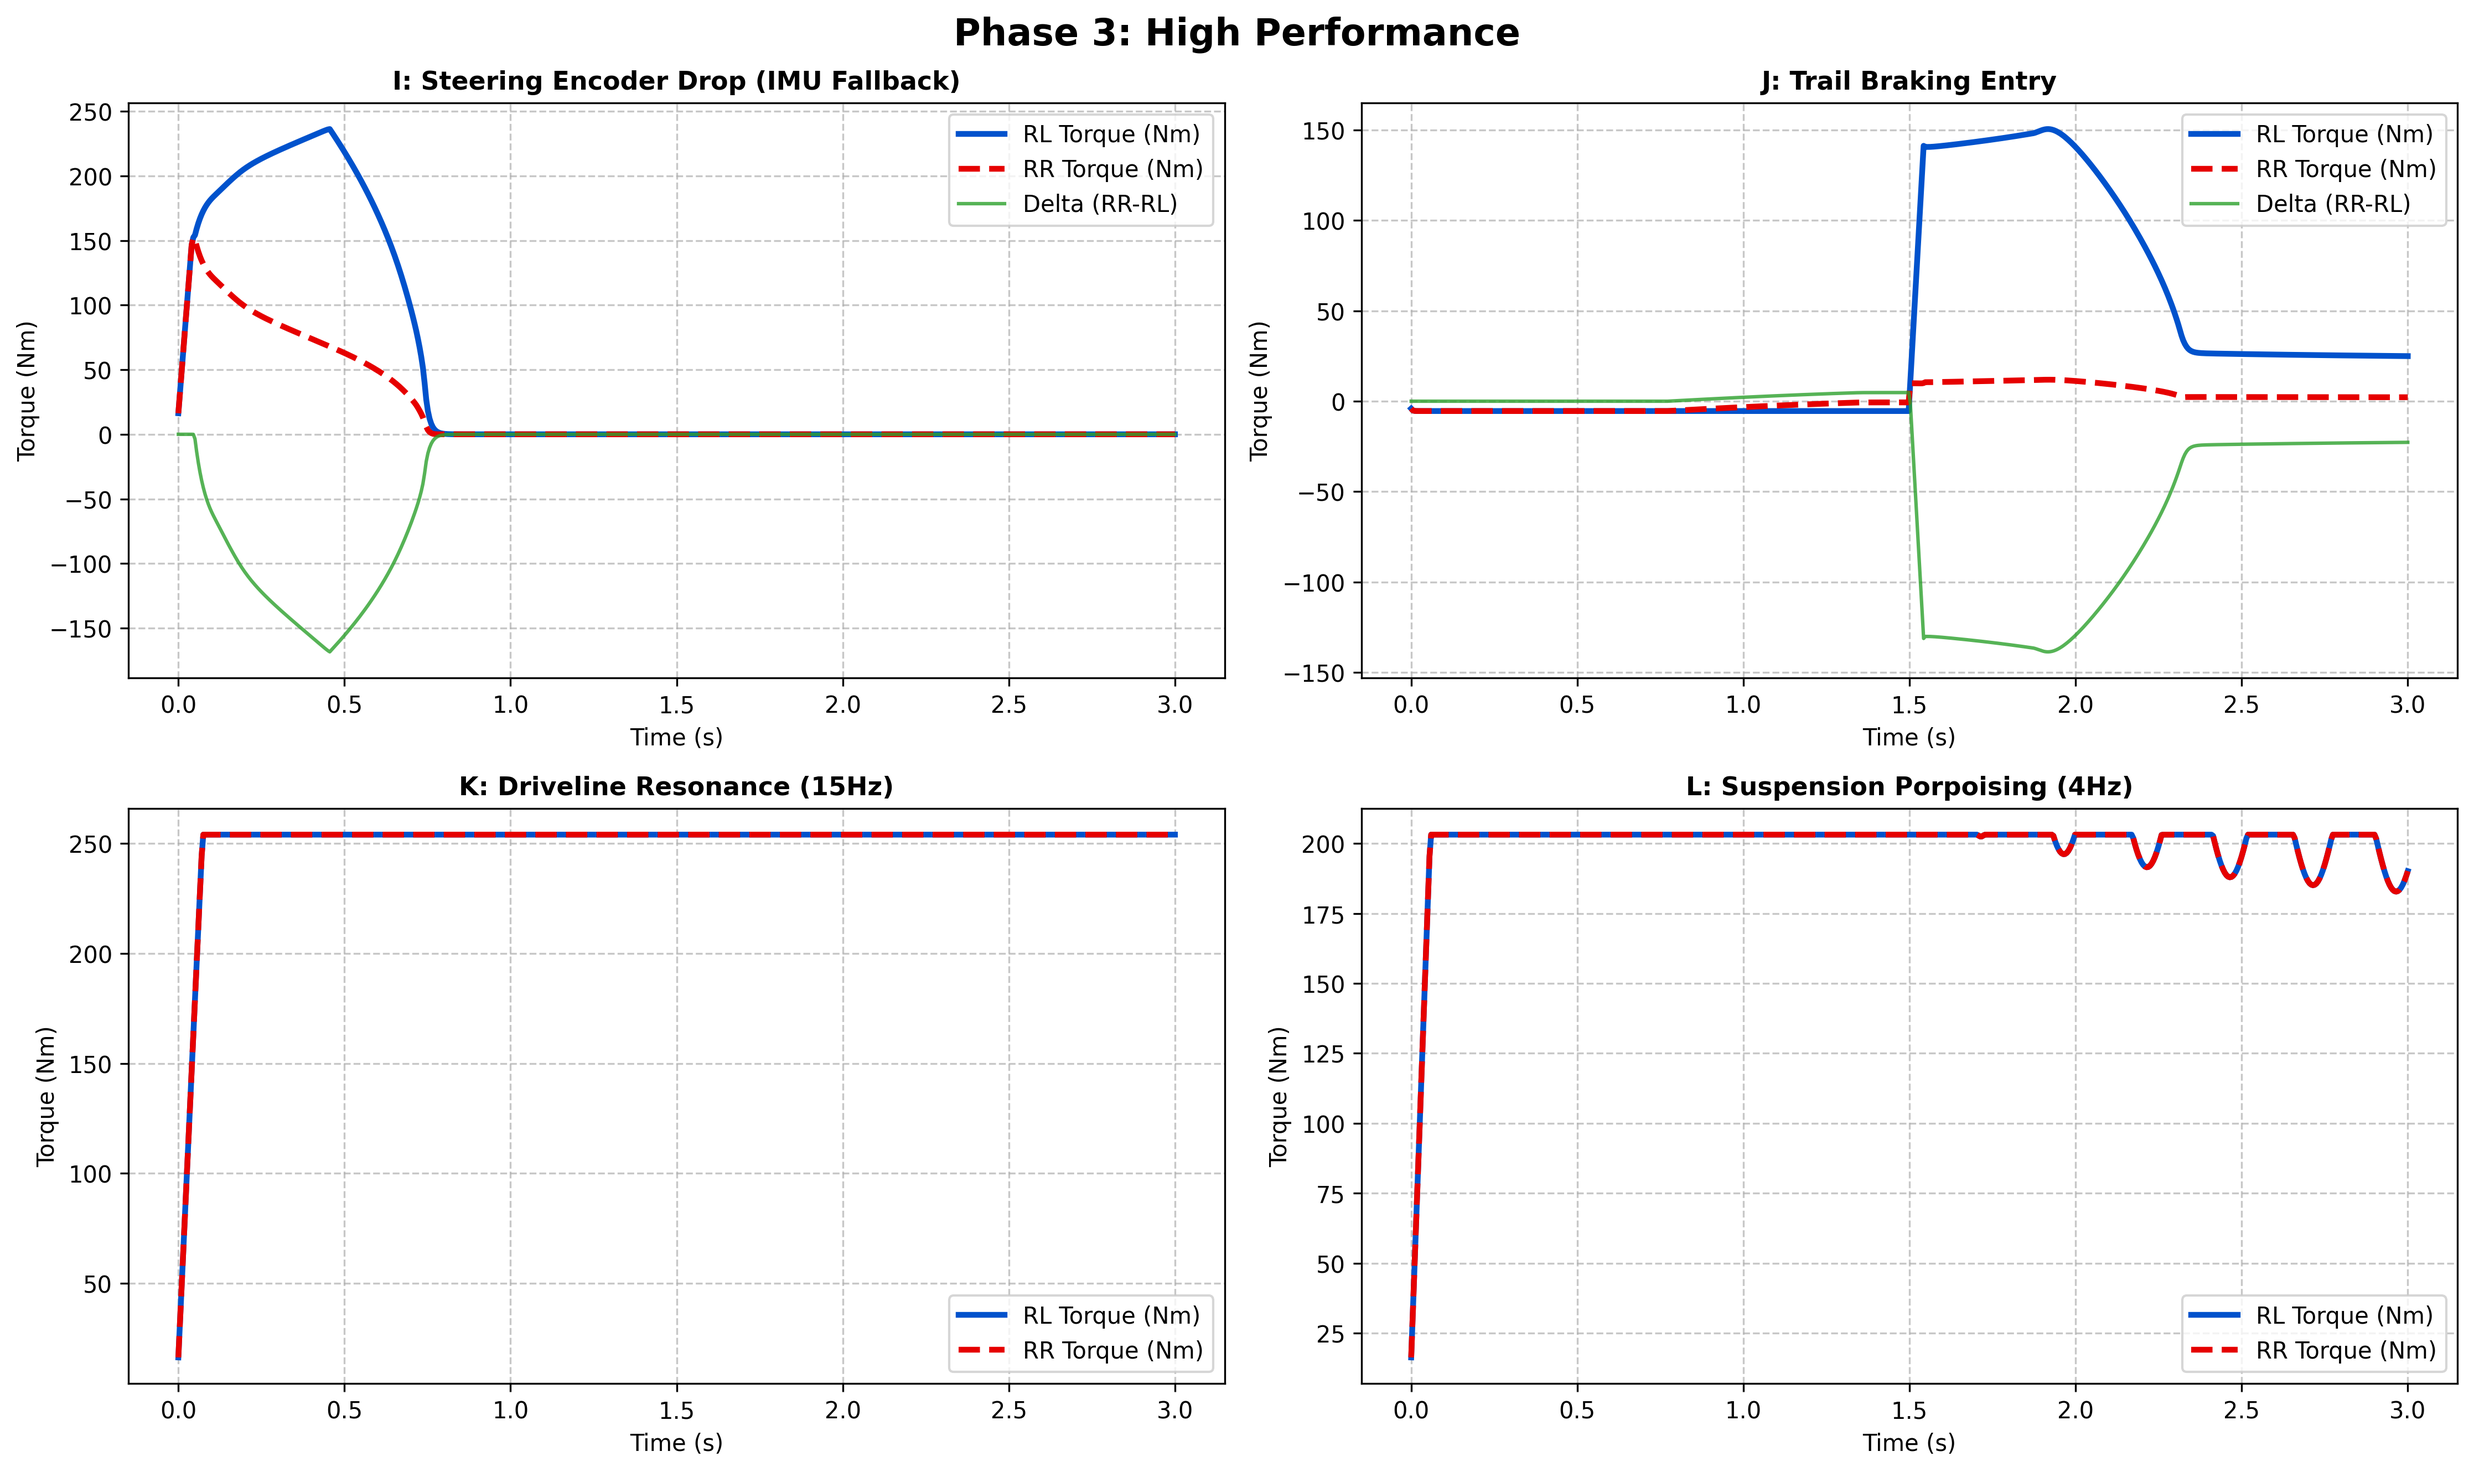
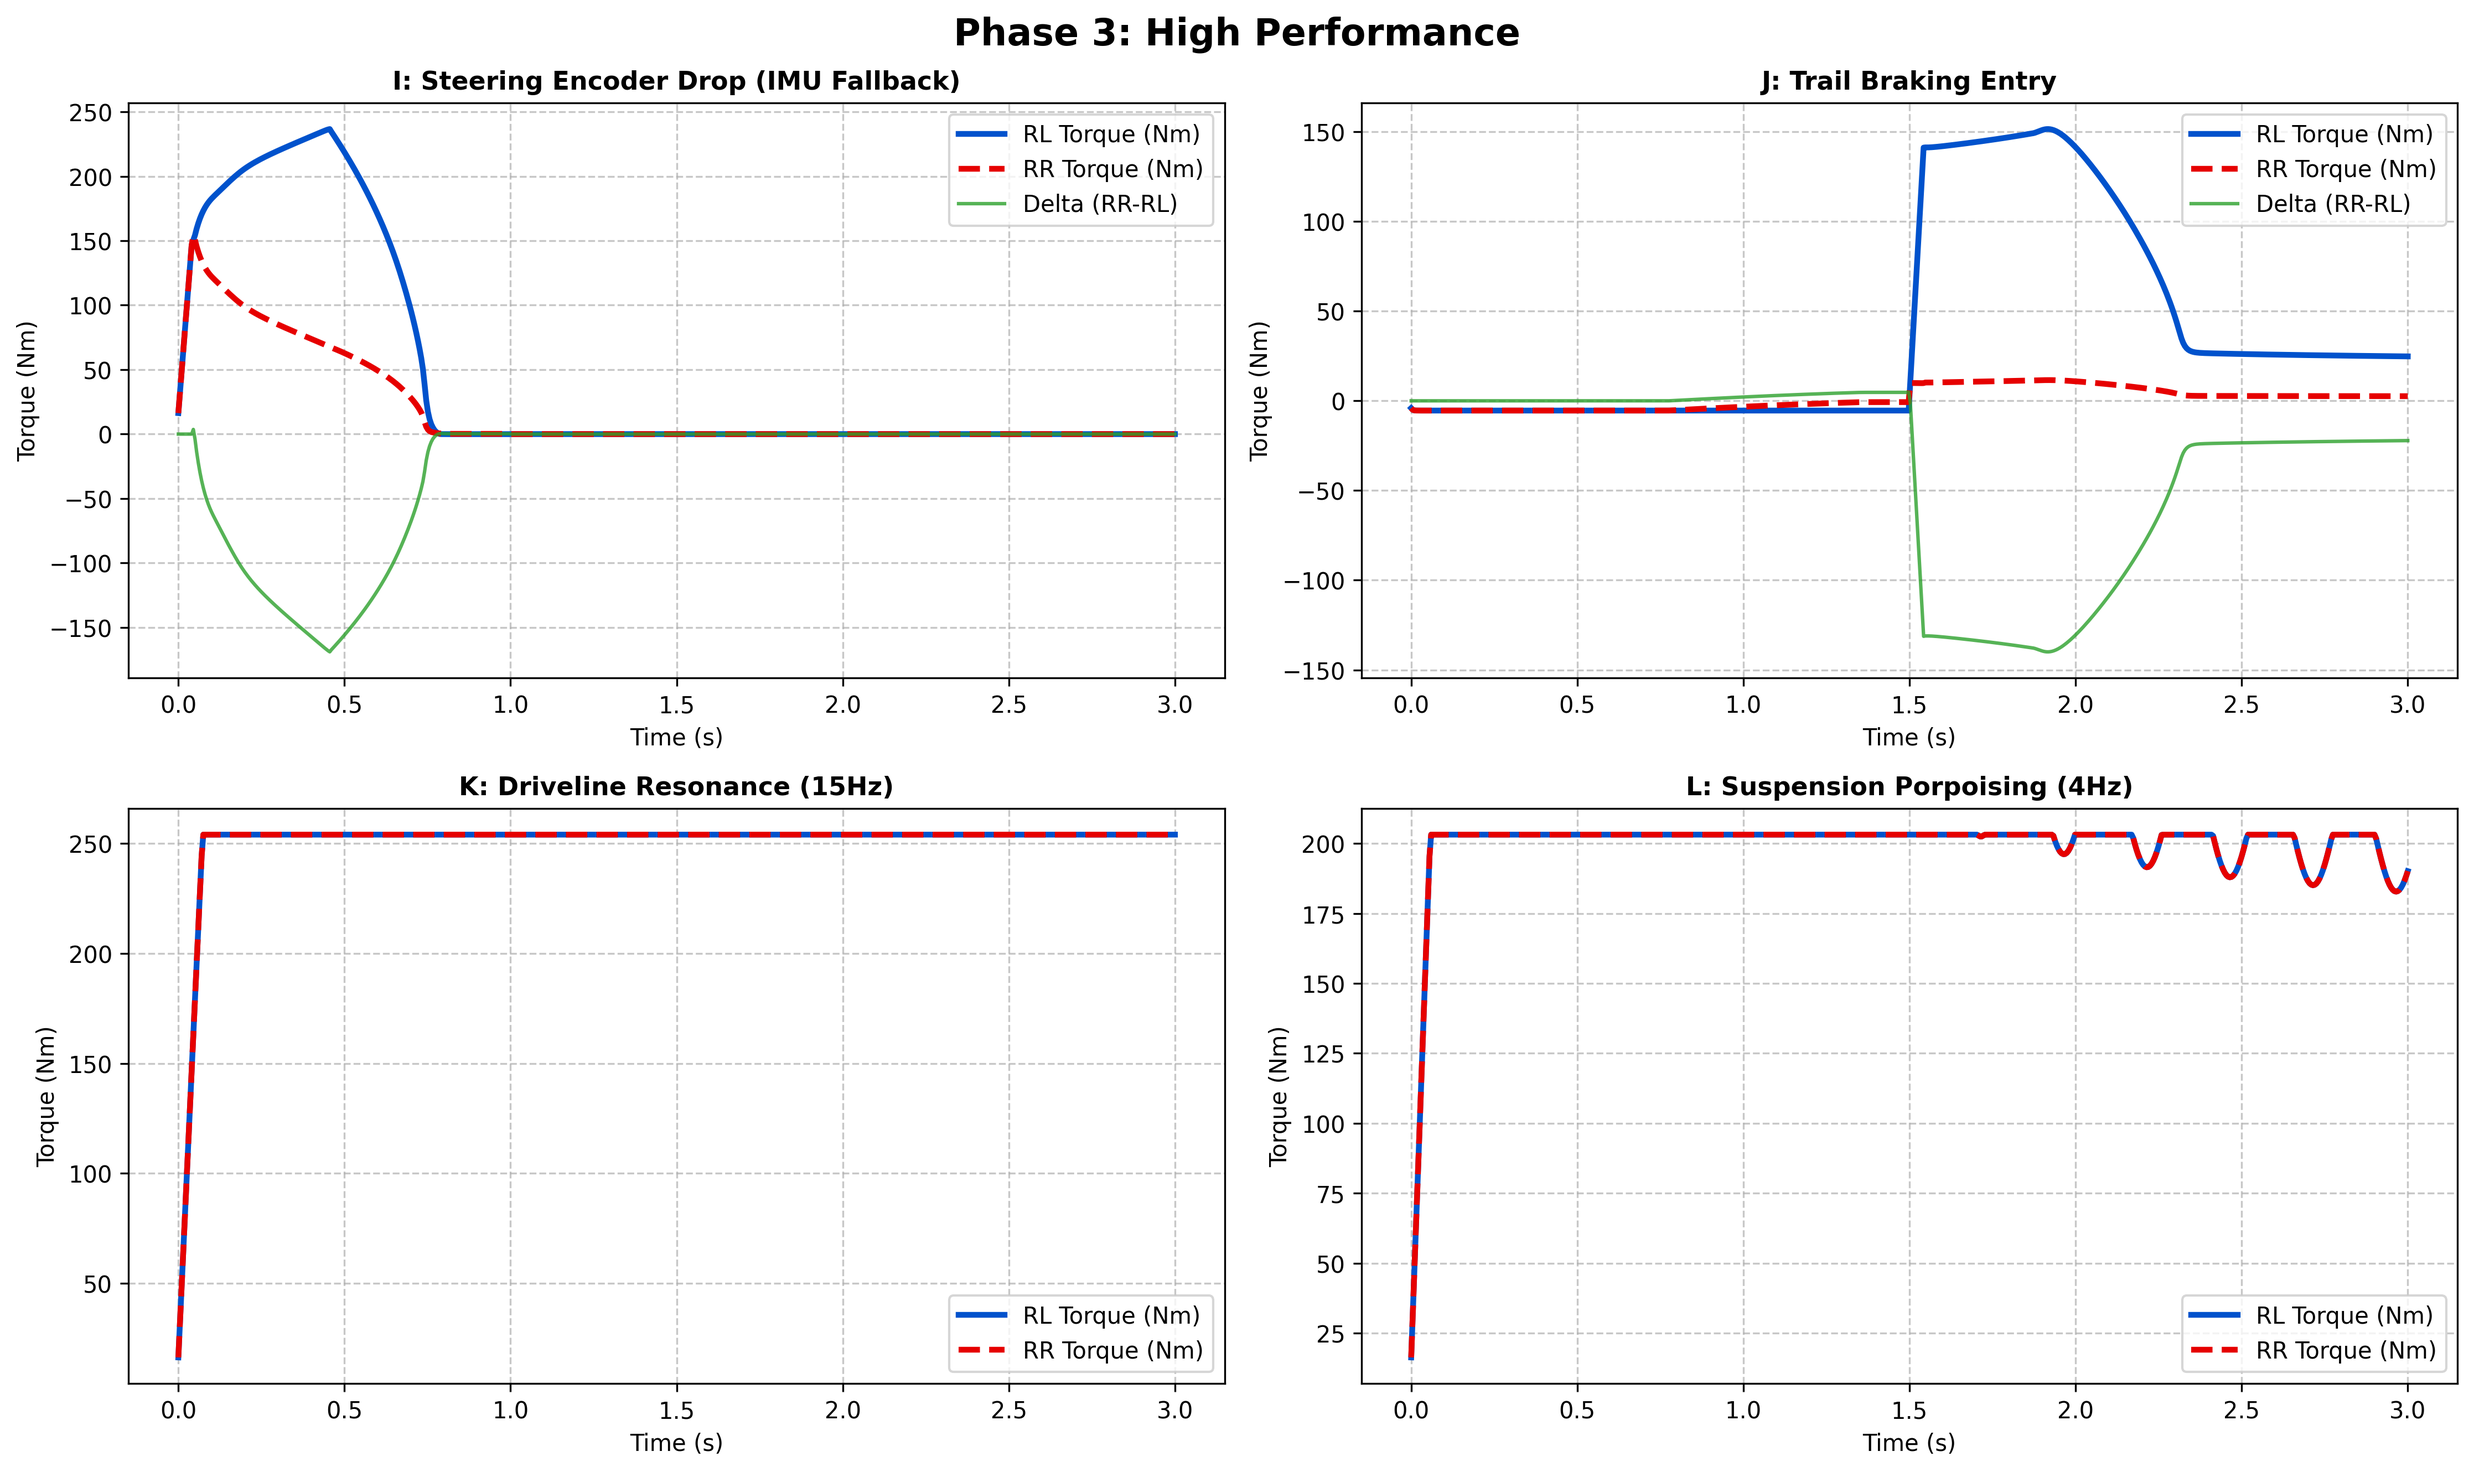
feat(v4): NMPC implementation and sanity checks trials

Changed region(s): [[0.5286, 0.4368, 0.5597, 0.468]]

diff --git a/SOFTWARE/TeR_ECU/Libraries/TRQ_VECTORING/master_sanity_checks.py b/SOFTWARE/TeR_ECU/Libraries/TRQ_VECTORING/master_sanity_checks.py
@@ -95,56 +95,36 @@ class TVState(ctypes.Structure):
 # Structural Safety Assertions
 assert ctypes.sizeof(TCState) == 42 * 4, f"TCState size mismatch"
 
-try:
-    gp_lib = ctypes.CDLL('./gp_core.so')
-except OSError:
-    print("Error: No se encuentra gp_core.so. Compila primero con gcc -shared...")
-    exit(1)
+def _bind(lib):
+    lib.gp_tv_state_sizeof.restype = ctypes.c_size_t
+    assert ctypes.sizeof(TVState) == lib.gp_tv_state_sizeof(), \
+        f"TVState layout drift in {lib._name}: Python={ctypes.sizeof(TVState)} C={lib.gp_tv_state_sizeof()}"
 
-# Runtime size probe to guarantee layout synchronization
-gp_lib.gp_tv_state_sizeof.restype = ctypes.c_size_t
-assert ctypes.sizeof(TVState) == gp_lib.gp_tv_state_sizeof(), \
-    f"TVState layout drift: Python size ({ctypes.sizeof(TVState)}) != C size ({gp_lib.gp_tv_state_sizeof()})"
+    lib.gp_tv_step.argtypes = [
+        ctypes.c_float, ctypes.c_float, ctypes.c_float, ctypes.c_float,
+        ctypes.c_float, ctypes.c_float, ctypes.c_float,
+        ctypes.POINTER(ctypes.c_float * 4),
+        ctypes.c_float, ctypes.c_float, ctypes.c_float,
+        ctypes.c_float, ctypes.c_uint8,
+        ctypes.POINTER(GPRegenLimits),
+        ctypes.c_float,
+        ctypes.POINTER(TVState),
+        ctypes.POINTER(ctypes.c_float * 4),
+    ]
+    lib.gp_tv_init.argtypes = [ctypes.POINTER(TVState)]
+    lib.gp_nmpc_init.argtypes = [ctypes.POINTER(NMPCState)]
+    lib.gp_nmpc_step.argtypes = [
+        ctypes.POINTER(ctypes.c_float), ctypes.c_float, ctypes.c_float,
+        ctypes.c_float, ctypes.c_float, ctypes.c_float,
+        ctypes.POINTER(NMPCState), ctypes.POINTER(ctypes.c_float),
+    ]
 
-# Firma actualizada para gp_tv_step (incluye vy_gps y gps_valid)
-gp_lib.gp_tv_step.argtypes = [
-    ctypes.c_float,                     # fx_driver
-    ctypes.c_float,                     # delta
-    ctypes.c_float,                     # vx
-    ctypes.c_float,                     # vy
-    ctypes.c_float,                     # wz
-    ctypes.c_float,                     # ay
-    ctypes.c_float,                     # ax
-    ctypes.POINTER(ctypes.c_float * 4), # omega
-    ctypes.c_float,                     # brake_norm
-    ctypes.c_float,                     # temp_inv_rl
-    ctypes.c_float,                     # temp_inv_rr
-    ctypes.c_float,                     # vy_gps
-    ctypes.c_uint8,                     # gps_valid
-    ctypes.POINTER(GPRegenLimits),      # regen
-    ctypes.c_float,                     # dt
-    ctypes.POINTER(TVState),            # state
-    ctypes.POINTER(ctypes.c_float * 4)  # t_out_c
-]
+_bind(gp_lib_alqp)
+_bind(gp_lib_nmpc)
 
-# NUEVO: Firma para gp_tv_init
-gp_lib.gp_tv_init.argtypes = [ctypes.POINTER(TVState)]
-
-# =====================================================================
-# CTYPES FUNCTION SIGNATURES (NMPC & SOLVER BINDINGS)
-# =====================================================================
-gp_lib.gp_nmpc_init.argtypes = [ctypes.POINTER(NMPCState)]
-
-gp_lib.gp_nmpc_step.argtypes = [
-    ctypes.POINTER(ctypes.c_float),  # states[3]
-    ctypes.c_float,                  # delta_sw
-    ctypes.c_float,                  # r_ref
-    ctypes.c_float,                  # dt_ctrl
-    ctypes.c_float,                  # mz_max
-    ctypes.c_float,                  # mz_rate_max
-    ctypes.POINTER(NMPCState),
-    ctypes.POINTER(ctypes.c_float),
-]
+gp_lib = gp_lib_alqp  # every Phase 1-13 helper below still says `gp_lib.` —
+                      # alias it to the real (non-NMPC) build instead of a
+                      # 40-line find/replace, so those results stay honest.
 
 # =====================================================================
 # 1.5. HARDWARE NON-IDEALITIES ENGINE (NOISE & LATENCY SIMULATOR)

diff --git a/SOFTWARE/TeR_ECU/Libraries/TRQ_VECTORING/inc/gp_nmpc.h b/SOFTWARE/TeR_ECU/Libraries/TRQ_VECTORING/inc/gp_nmpc.h
@@ -4,6 +4,7 @@
 #include "gp_params.h"
 
 #define GP_NMPC_N          5
+#define GP_NMPC_DT         0.010f
 #define GP_NMPC_STATES     2
 #define GP_NMPC_INPUTS     1
 
@@ -16,11 +17,14 @@
 #define GP_VEH_CR          95000.0f
 #endif
 
+// Control-horizon-1 batch QP: single decision variable (u_0) held over the
+// GP_NMPC_N-step prediction. A_d/B_d/u_warm are single-stage, NOT
+// per-horizon-step — x_pred is kept per-step only for telemetry.
 typedef struct {
     float x_pred[GP_NMPC_N + 1][GP_NMPC_STATES];
-    float A_d[GP_NMPC_STATES][GP_NMPC_STATES]; // this tick's linearization (LTI over horizon)
+    float A_d[GP_NMPC_STATES][GP_NMPC_STATES];
     float B_d[GP_NMPC_STATES][GP_NMPC_INPUTS];
-    float u_warm; // last ACTUALLY APPLIED Mz (post box+rate limit) — caller must write this back
+    float u_warm;   // last APPLIED Mz (post box+slew+gates) — caller must persist this
 } gp_nmpc_state_t;
 
 void gp_nmpc_init(gp_nmpc_state_t *state);
@@ -29,17 +33,8 @@ void gp_nmpc_compute_jacobians(float v_x,
                                float A_c[GP_NMPC_STATES][GP_NMPC_STATES],
                                float B_c[GP_NMPC_STATES][GP_NMPC_INPUTS]);
 
-// dt_ctrl      : REAL control-loop dt (no more hardcoded GP_NMPC_DT drift vs actual call rate)
-// mz_max       : dynamic, friction/speed-derived Mz ceiling for THIS tick (caller computes)
-// mz_rate_max  : max |Mz_k - Mz_{k-1}| this tick, derived from GP_TV_RATE_LIMIT*dt_ctrl,
-//                so the optimizer's own plan already respects the actuator's real slew limit
-void gp_nmpc_step(const float states[3],
-                   float delta_sw,
-                   float r_ref,
-                   float dt_ctrl,
-                   float mz_max,
-                   float mz_rate_max,
-                   gp_nmpc_state_t *nmpc_state,
-                   float *mz_cmd);
+void gp_nmpc_step(const float states[3], float delta_sw, float r_ref,
+                   float dt_ctrl, float mz_max, float mz_rate_max,
+                   gp_nmpc_state_t *nmpc_state, float *mz_cmd);
 
 #endif // GP_NMPC_H

diff --git a/SOFTWARE/TeR_ECU/Libraries/TRQ_VECTORING/src/gp_torque_vectoring.c b/SOFTWARE/TeR_ECU/Libraries/TRQ_VECTORING/src/gp_torque_vectoring.c
@@ -218,6 +218,19 @@ void gp_tv_step(
         float states_nmpc[3] = { vx, vy, wz_corr };
         gp_nmpc_step(states_nmpc, delta, wz_ref, dt, mz_max_dyn, mz_rate_max,
                      &state->nmpc, &mz_req);
+
+        // Same physical gates Branch 3 applies below. Without these, NMPC
+        // has no notion of "driver already countersteering" or "already at
+        // target yaw rate, back off" and keeps chasing wz_ref at full box
+        // authority through a reversal — this was the chattering root cause.
+        mz_req = GP_CLAMP(mz_req * os_gate * counter_steer_factor,
+                           -mz_max_dyn, mz_max_dyn);
+
+        // Persist the ACTUALLY REQUESTED (post box+slew+gate) Mz as next
+        // tick's warm-start/slew reference. Omitting this line is why
+        // u_warm was silently dead — the solve was rate-limiting itself
+        // against zero every tick regardless of what it commanded last.
+        state->nmpc.u_warm = mz_req;
     #else
         // ── Branch 3: Feedback PID + Beta Stabilization ─────────────────
         float ff_mz = kd * delta_dot * (vx_safe / 10.0f);
